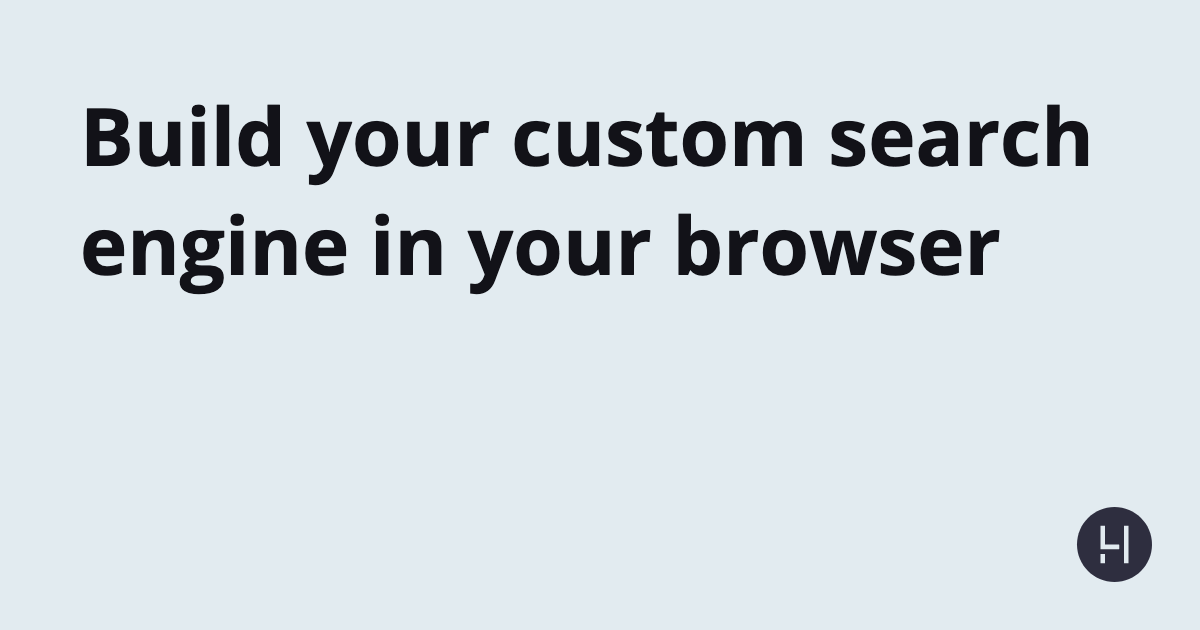
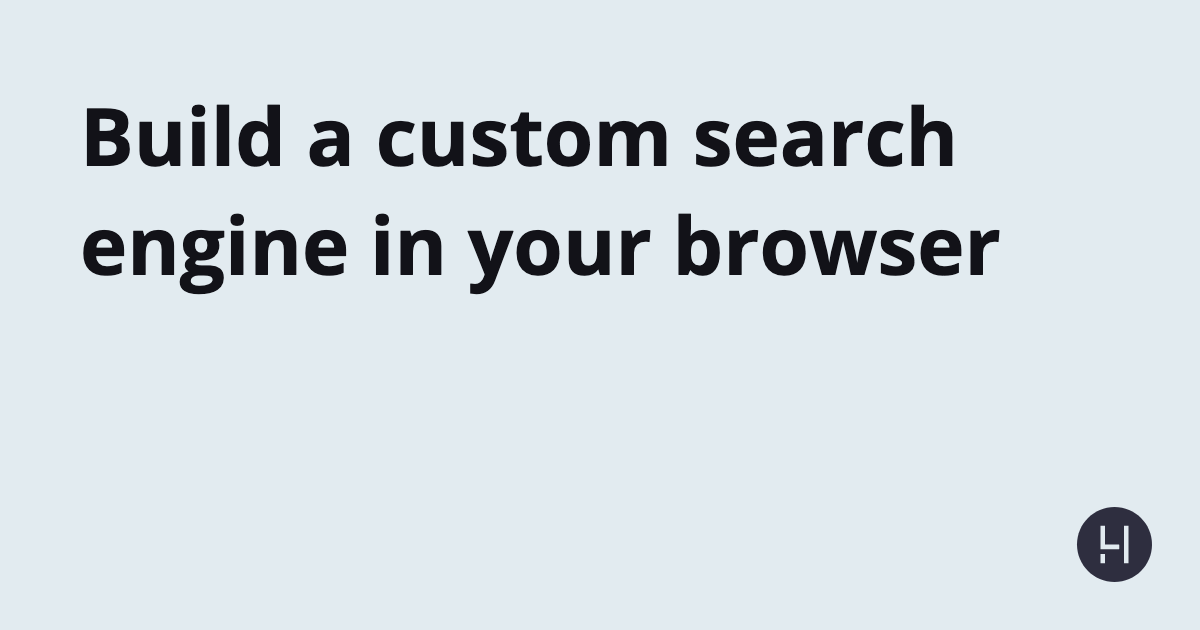
fix title

Changed region(s): [[0.2467, 0.1508, 0.925, 0.3016]]

diff --git a/content/posts/custom-search-engines-in-your-browser.md b/content/posts/custom-search-engines-in-your-browser.md
@@ -1,5 +1,5 @@
 ---
-title: Build your custom search engine in your browser
+title: Build a custom search engine in your browser
 description: I show you why custom search engines in your browser are a nice tool and how I use them.
 publishedAt: 2021-06-20
 tags:
